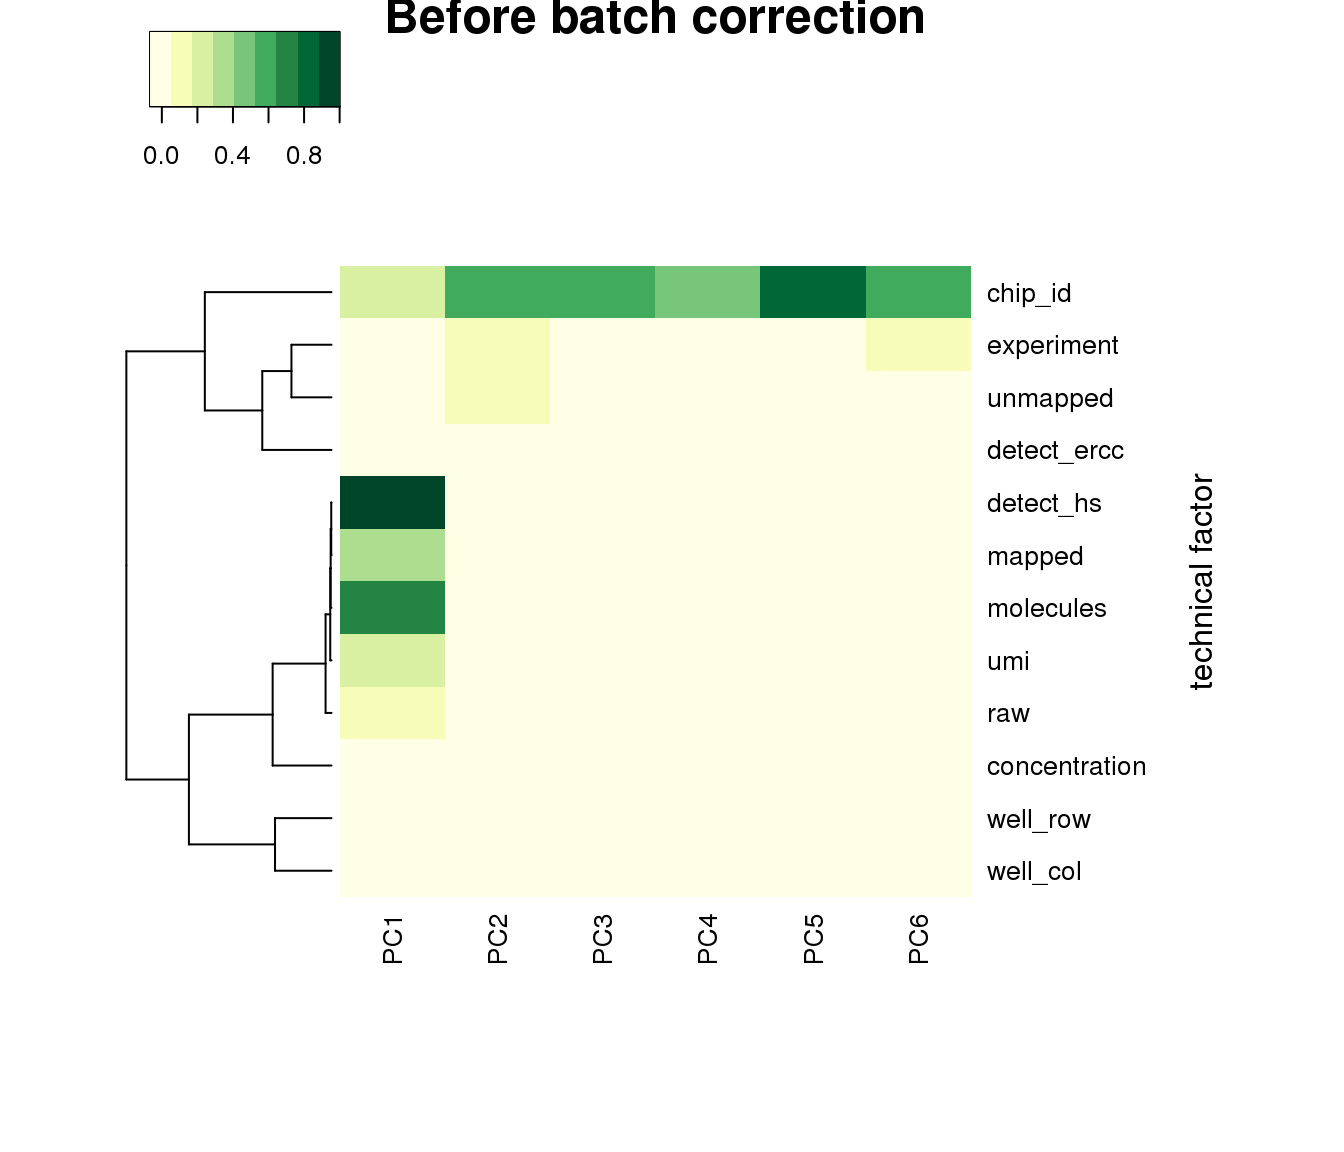
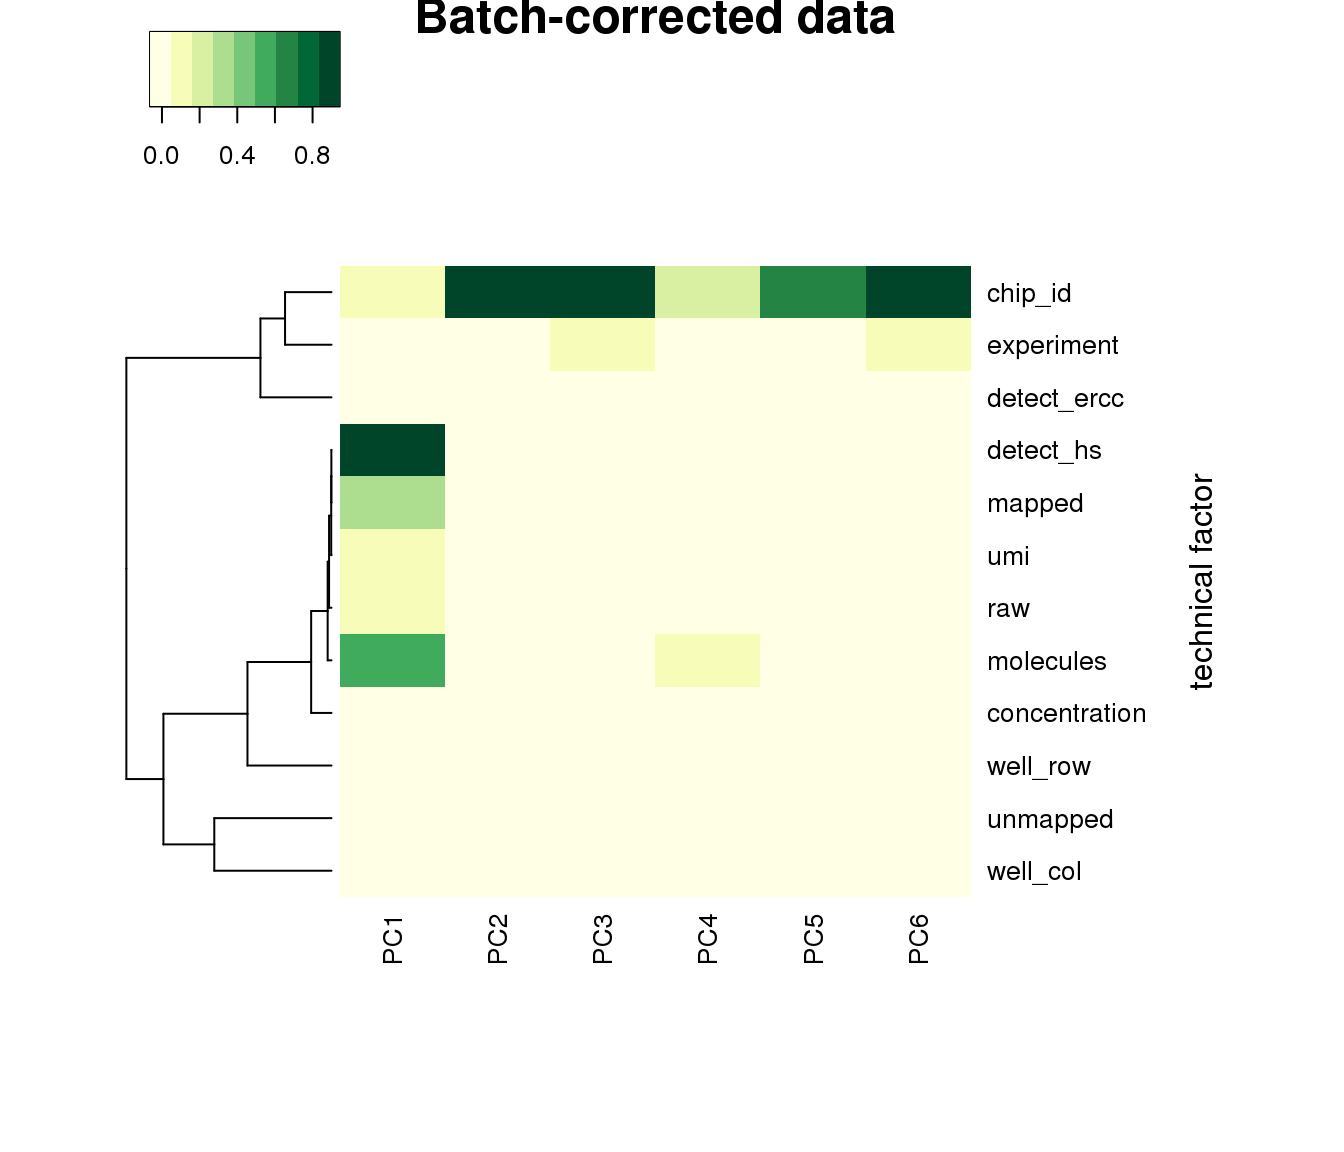
Build site.

diff --git a/docs/seqdata-batch-correction.html b/docs/seqdata-batch-correction.html
@@ -322,7 +322,7 @@ shared across the workflowr files. -->
 <p><strong>Last updated:</strong> 2018-02-14</p>
 <!-- Insert the code version (Git commit SHA1) if Git repository exists and R
  package git2r is installed -->
-<p><strong>Code version:</strong> 5f10227</p>
+<p><strong>Code version:</strong> 3267559</p>
 <hr />
 <div id="introductionsummary" class="section level2">
 <h2>Introduction/summary</h2>
@@ -373,7 +373,9 @@ counts &lt;- exprs(df)</code></pre>
         xlab = &quot;Plate&quot;, ylab = &quot;log10 library size&quot;)</code></pre>
 <p><img src="figure/seqdata-batch-correction.Rmd/unnamed-chunk-3-2.png" width="672" style="display: block; margin: auto;" /></p>
 <p>counts to log2cpm</p>
-<pre class="r"><code>log2cpm &lt;- t(log2(1+(10^6)*(t(counts)/colSums(counts))))</code></pre>
+<pre class="r"><code>log2cpm &lt;- t(log2(1+(10^6)*(t(counts)/pdata$molecules)))</code></pre>
+<p>save log2cpm</p>
+<pre class="r"><code>saveRDS(log2cpm, file = &quot;../output/seqdata-batch-correction.Rmd/log2cpm.rds&quot;)</code></pre>
 <p>convert sample well to two labels: rows and columns</p>
 <pre class="r"><code>pdata$well_row &lt;- str_sub(pdata$well,1,1)
 pdata$well_col &lt;- str_sub(pdata$well,2,3)</code></pre>
@@ -383,7 +385,7 @@ pdata$well_col &lt;- str_sub(pdata$well,2,3)</code></pre>
 <h2>batch variation</h2>
 <p>total molecules significant differs between individuals and batch</p>
 <pre class="r"><code>ibd_mol &lt;- aov.ibd(log10(molecules)~factor(chip_id)+factor(experiment),data=pdata)</code></pre>
-<p><img src="figure/seqdata-batch-correction.Rmd/unnamed-chunk-7-1.png" width="1056" style="display: block; margin: auto;" /></p>
+<p><img src="figure/seqdata-batch-correction.Rmd/unnamed-chunk-8-1.png" width="1056" style="display: block; margin: auto;" /></p>
 <p>per gene log2cpm anova</p>
 <pre class="r"><code>ibd_genes &lt;- lapply(1:nrow(log2cpm), function(i) {
   aov.ibd(log2cpm[i,]~factor(chip_id)+factor(experiment),data=pdata)
@@ -398,7 +400,7 @@ plate_varprop &lt;- sapply(ibd_genes, function(x)  x[[1]]$`Sum Sq`[3]/sum(x[[1]]
 
 plot(log10(ind_varprop), log10(plate_varprop), xlim=c(-4,0), ylim=c(-4,0),
      pch=16, cex=.7)</code></pre>
-<p><img src="figure/seqdata-batch-correction.Rmd/unnamed-chunk-9-1.png" width="672" style="display: block; margin: auto;" /></p>
+<p><img src="figure/seqdata-batch-correction.Rmd/unnamed-chunk-10-1.png" width="672" style="display: block; margin: auto;" /></p>
 <p>Estimate plate effect</p>
 <pre class="r"><code># make contrast matrix
 n_plates &lt;- uniqueN(pdata$experiment)
@@ -451,7 +453,7 @@ for (cov in colnames(covariates)) {
 heatmap3(r2, cexRow=1, cexCol=1, margins=c(8,8), scale = &quot;none&quot;,
          col=brewer.pal(9,&quot;YlGn&quot;), showColDendro = F, Colv = NA,
          ylab=&quot;technical factor&quot;, main = &quot;Batch-corrected data&quot;)</code></pre>
-<p><img src="figure/seqdata-batch-correction.Rmd/unnamed-chunk-12-1.png" width="672" style="display: block; margin: auto;" /></p>
+<p><img src="figure/seqdata-batch-correction.Rmd/unnamed-chunk-13-1.png" width="672" style="display: block; margin: auto;" /></p>
 <p>PCA before adjustment.</p>
 <pre class="r"><code>pca_log2cpm &lt;- prcomp(t(log2cpm), center = TRUE)
 
@@ -481,7 +483,7 @@ for (cov in colnames(covariates)) {
 heatmap3(r2, cexRow=1, cexCol=1, margins=c(8,8), scale = &quot;none&quot;,
          col=brewer.pal(9,&quot;YlGn&quot;), showColDendro = F, Colv = NA,
          ylab=&quot;technical factor&quot;, main = &quot;Before batch correction&quot;)</code></pre>
-<p><img src="figure/seqdata-batch-correction.Rmd/unnamed-chunk-13-1.png" width="672" style="display: block; margin: auto;" /></p>
+<p><img src="figure/seqdata-batch-correction.Rmd/unnamed-chunk-14-1.png" width="672" style="display: block; margin: auto;" /></p>
 <hr />
 </div>
 <div id="session-information" class="section level2">
